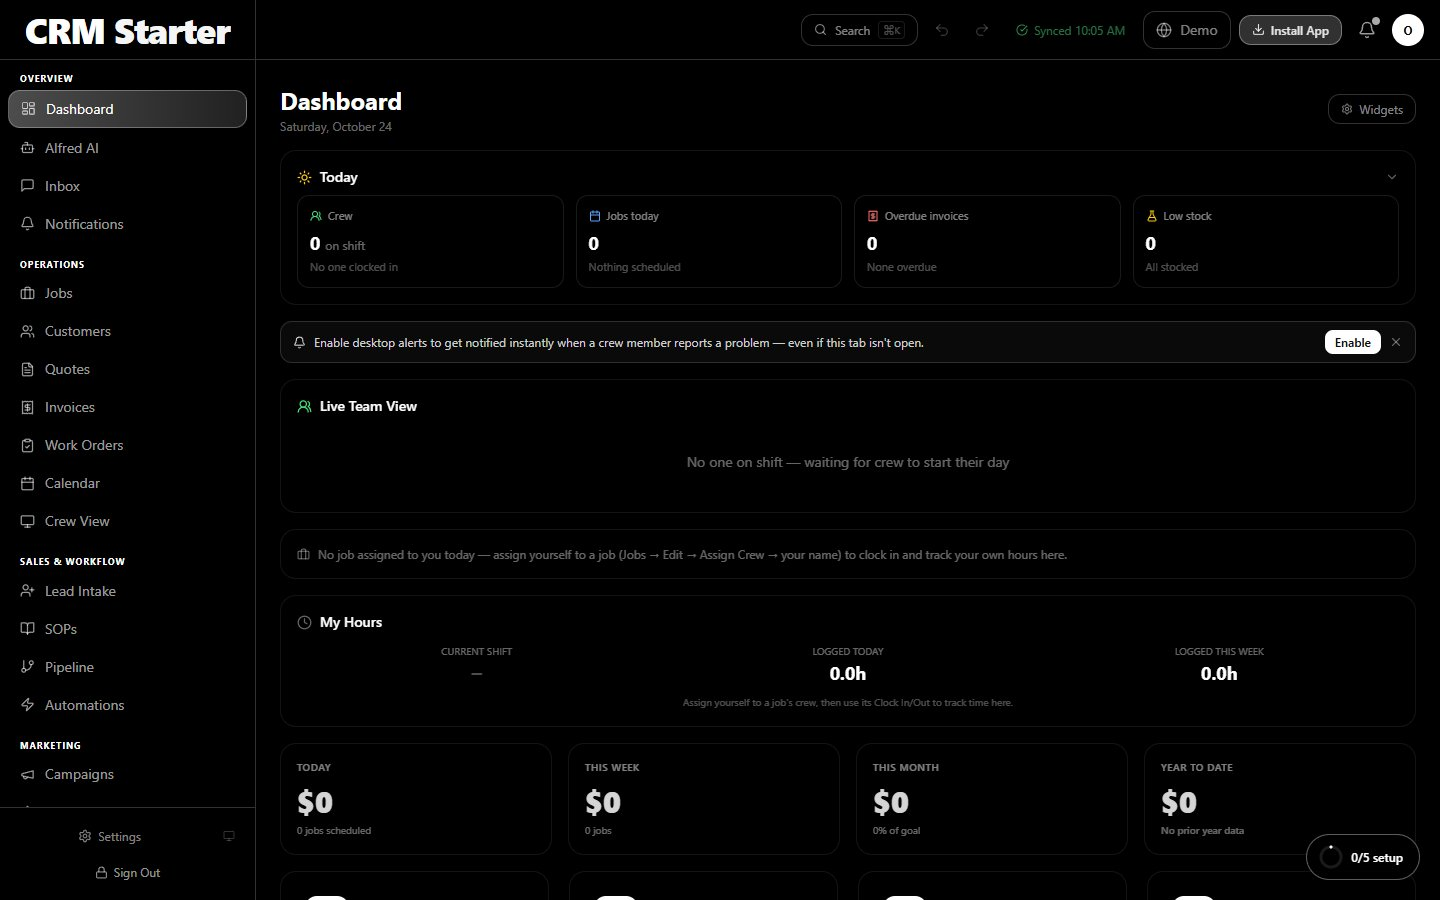
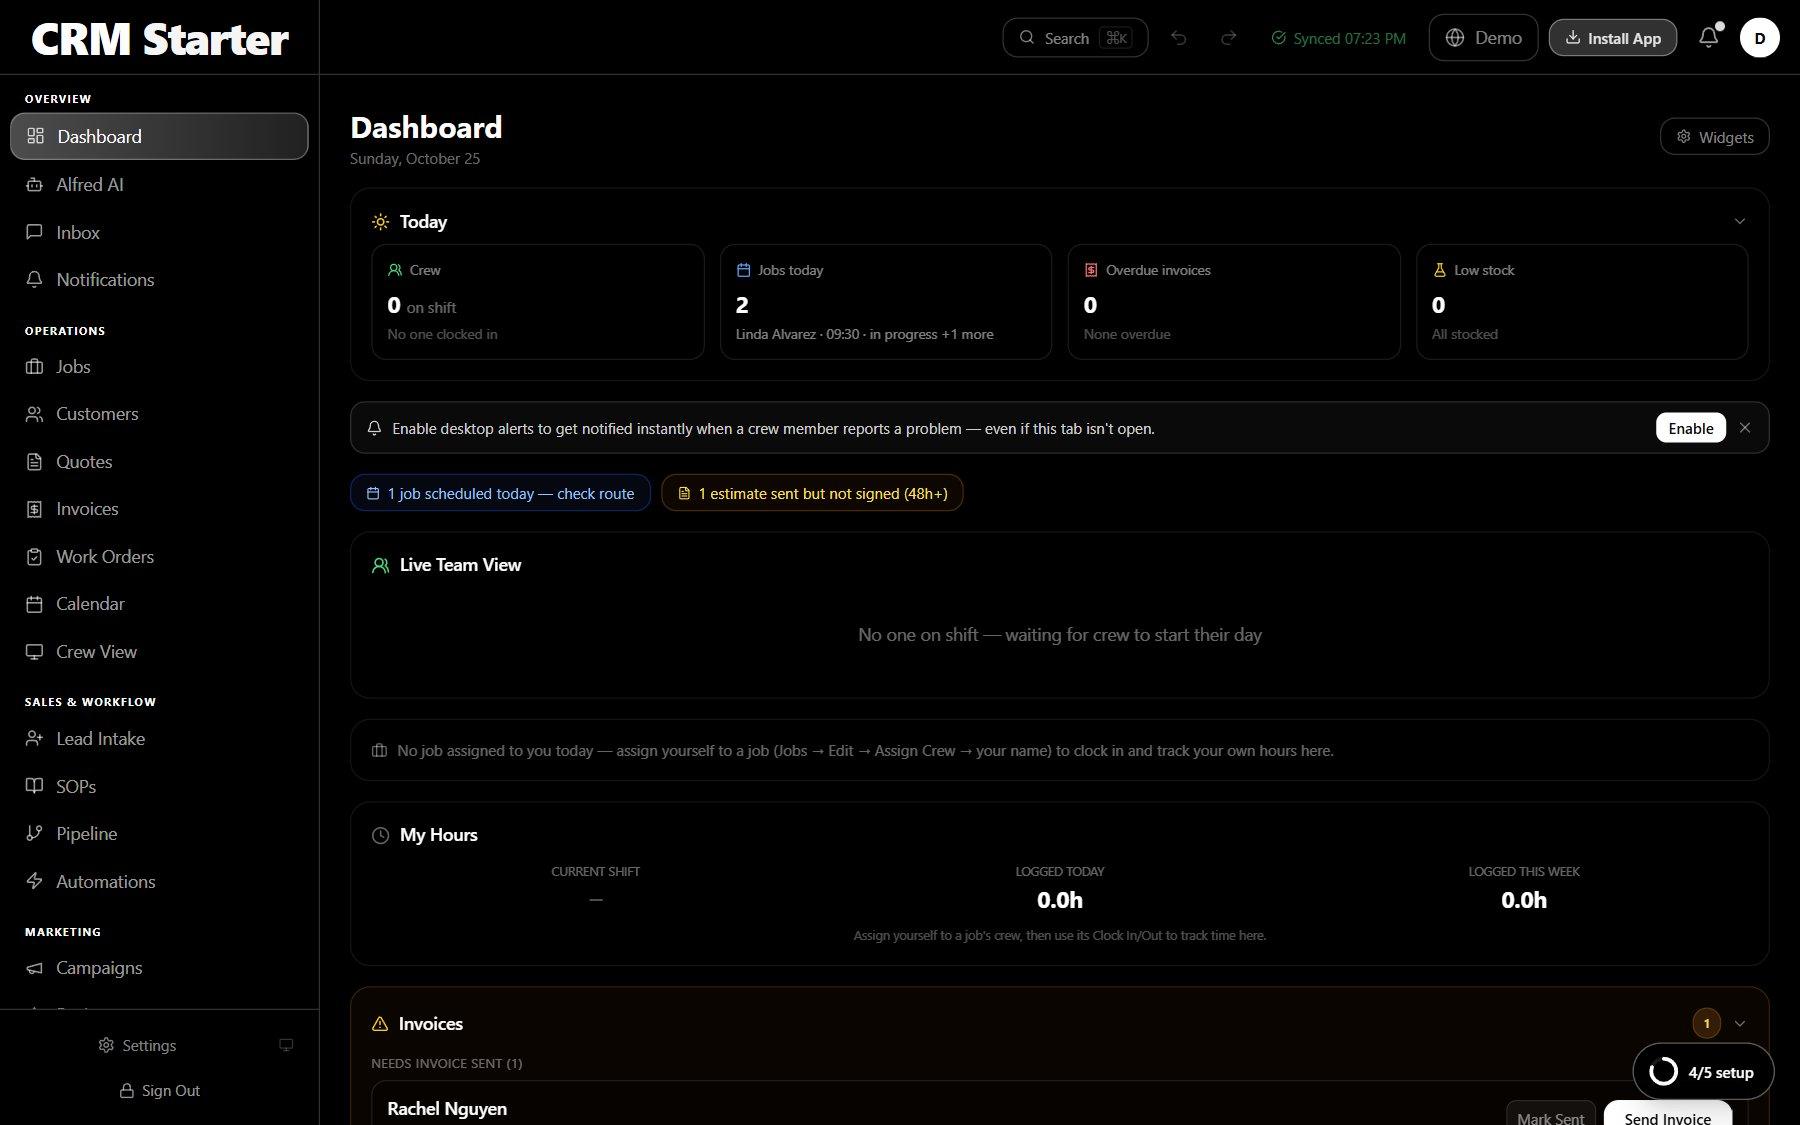
docs: README screenshots of the main pages with demo data [skip ci]

diff --git a/README.md b/README.md
@@ -62,11 +62,25 @@ Create a new CRM for my business from https://github.com/F0rger123/ultimate-crm-
 
 ## 02 · Screenshots
 
-<p align="center">
-  <img src=".github/assets/screens/landing.jpg" alt="The CRM's public landing page" width="49%">
-  <img src=".github/assets/screens/dashboard.jpg" alt="The owner dashboard on a fresh install" width="49%">
-</p>
-<p align="center"><sub>Left: the public landing page. Right: the owner dashboard on a brand-new install, before any customers are added.</sub></p>
+<table>
+  <tr>
+    <td width="50%"><img src=".github/assets/screens/jobs.jpg" alt="Jobs board with crew, price and start buttons"><br><sub><b>Jobs.</b> Every visit with its crew, price and one-tap Start.</sub></td>
+    <td width="50%"><img src=".github/assets/screens/calendar.jpg" alt="Month calendar with colour-coded jobs"><br><sub><b>Calendar.</b> Scheduled, in progress and done at a glance.</sub></td>
+  </tr>
+  <tr>
+    <td width="50%"><img src=".github/assets/screens/customers.jpg" alt="Customer list with phone and total spent"><br><sub><b>Customers.</b> Contact details, lifetime spend, import from CSV or Stripe.</sub></td>
+    <td width="50%"><img src=".github/assets/screens/quotes.jpg" alt="Quote cards with pending, approved and declined status"><br><sub><b>Quotes.</b> See which were viewed, approved or turned down, and why.</sub></td>
+  </tr>
+  <tr>
+    <td width="72%"><img src=".github/assets/screens/invoices.jpg" alt="Invoices with outstanding, paid and aging totals"><br><sub><b>Invoices.</b> What is owed, what is paid, and jobs still waiting for a bill.</sub></td>
+    <td width="28%"><img src=".github/assets/screens/phone.jpg" alt="Jobs page on a phone"><br><sub><b>On a phone.</b> Built for the truck as much as the office.</sub></td>
+  </tr>
+  <tr>
+    <td width="50%"><img src=".github/assets/screens/dashboard.jpg" alt="Owner dashboard with today's jobs and crew"><br><sub><b>Dashboard.</b> Today's jobs, crew on shift and money in one place.</sub></td>
+    <td width="50%"><img src=".github/assets/screens/landing.jpg" alt="Public landing page"><br><sub><b>Public site.</b> The landing page customers see.</sub></td>
+  </tr>
+</table>
+<p align="center"><sub>Shown with a made-up business and customers. A fresh install starts empty.</sub></p>
 
 ## 03 · From first call to five-star review
 
